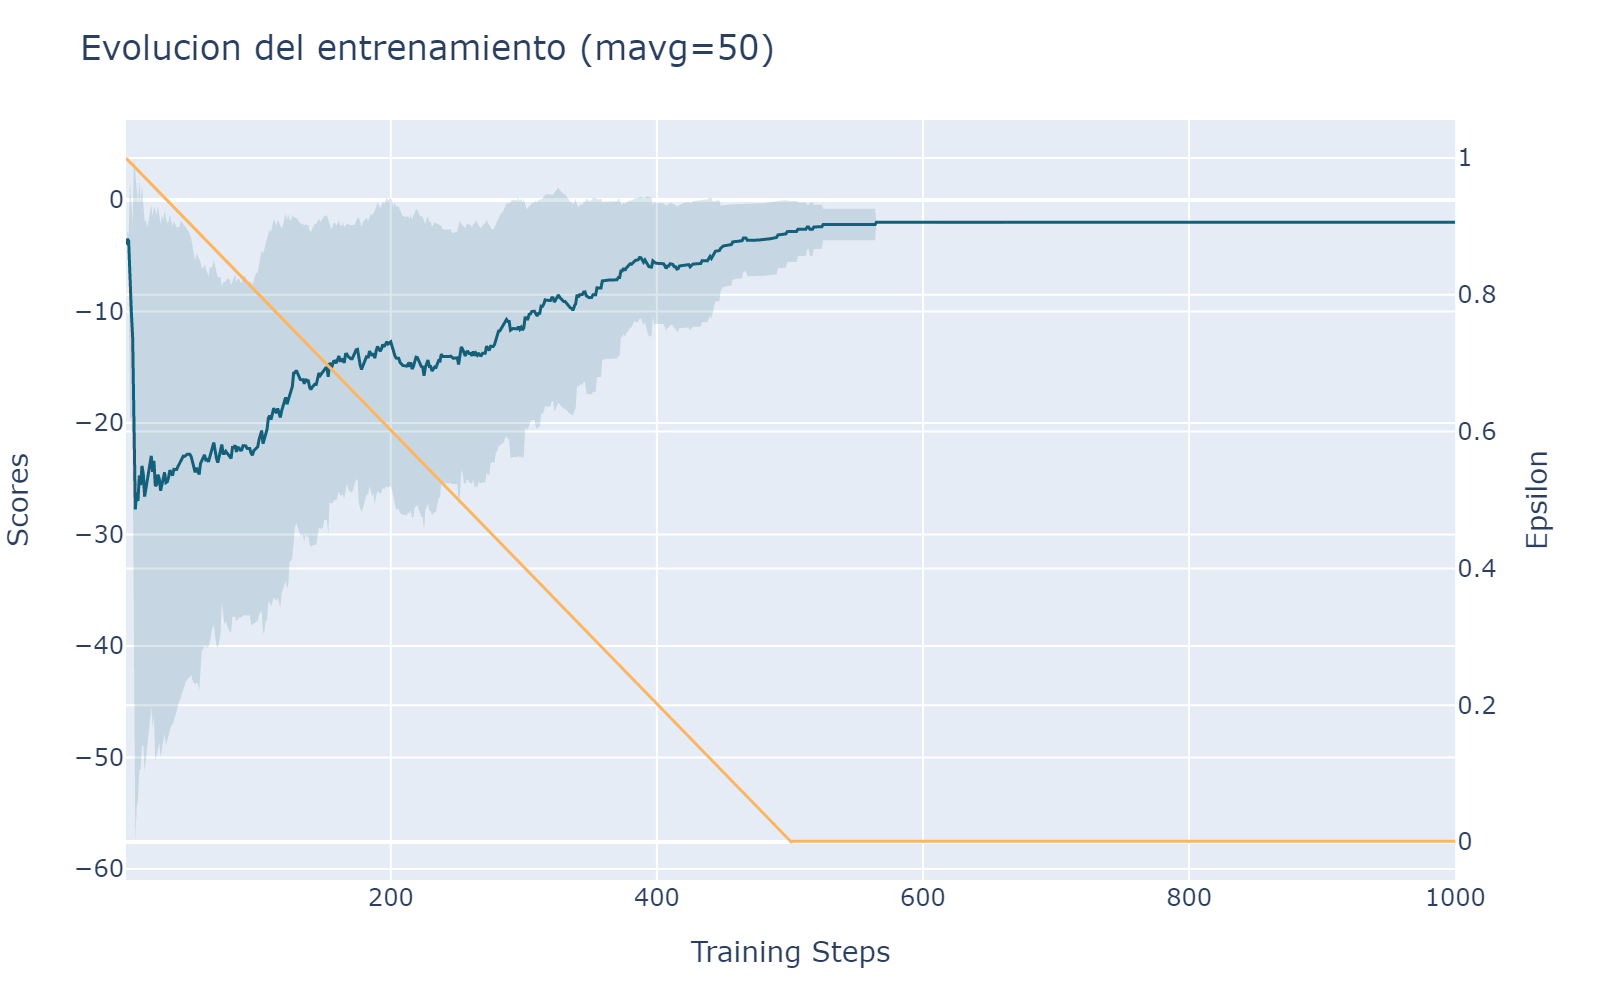
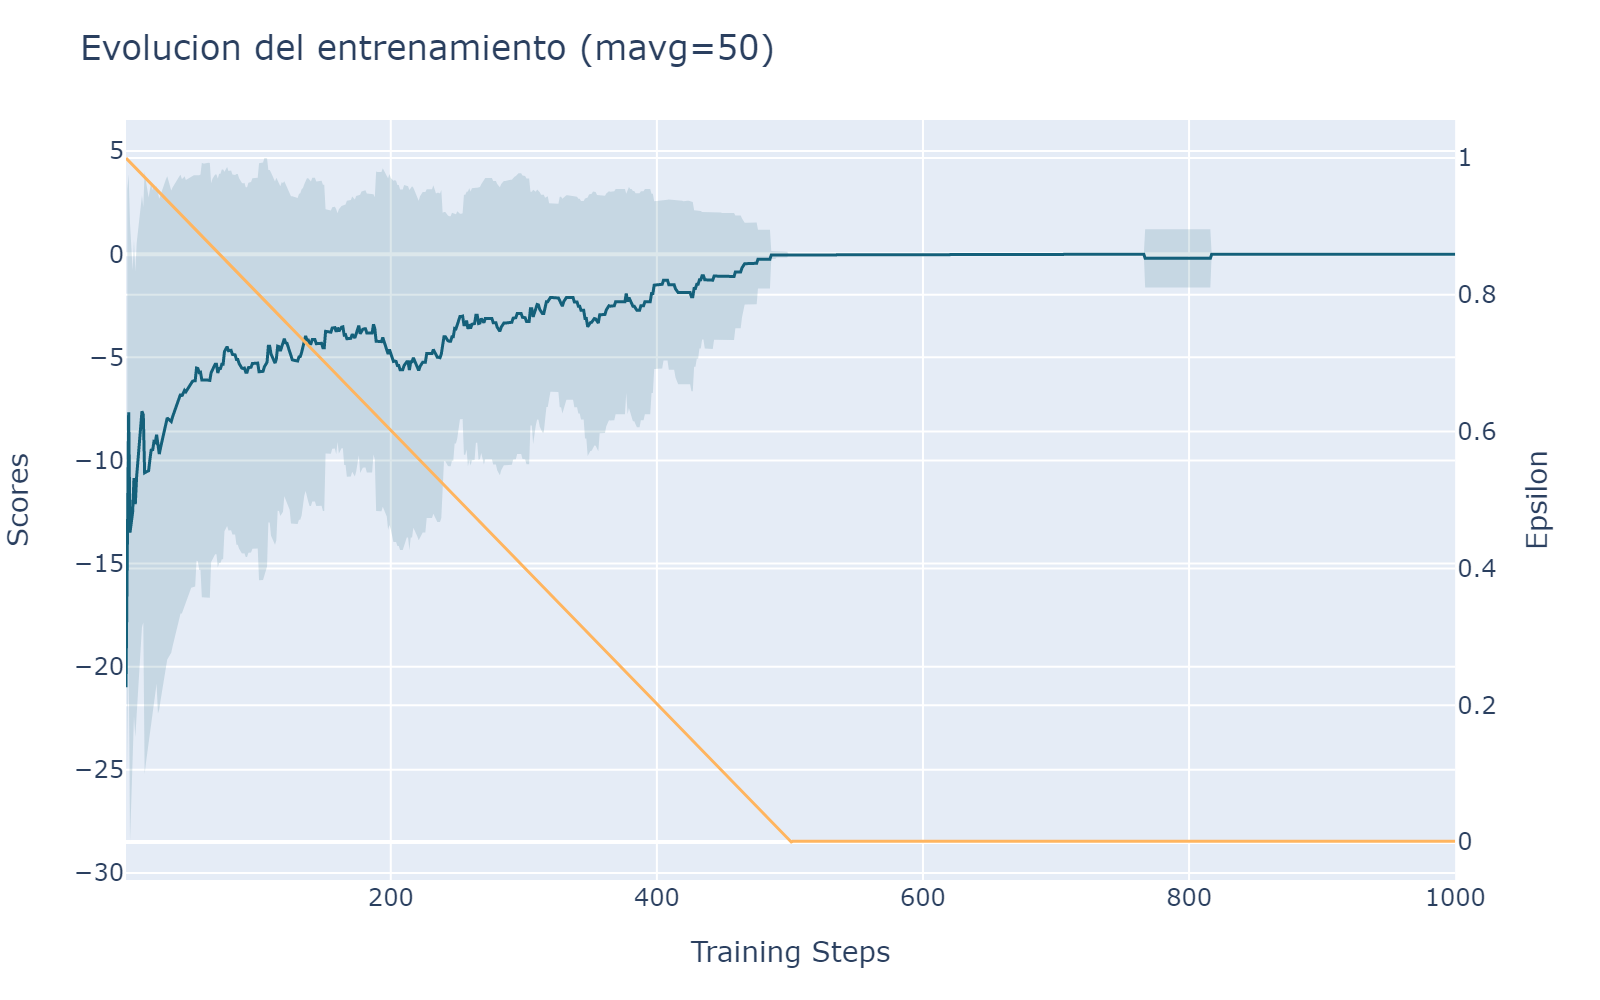
Valor como referencia

diff --git a/modelo_rl/modelo_rl/examples/modulo.py b/modelo_rl/modelo_rl/examples/modulo.py
@@ -1,21 +1,23 @@
 import numpy as np
 import modelo_rl
 import os
+
 path = os.path.dirname(os.path.abspath(__file__))
 
-ejemplo = np.array(
-        [
-            {'id': 'gye1-port1', 'congestionado': True, 'bw': 199, 'region': 'gye', 'capacidad': 200},
-            {'id': 'gye1-port2', 'congestionado': False, 'bw': 187, 'region': 'gye', 'capacidad': 200},
-            {'id': 'gye1-port3', 'congestionado': False, 'bw': 156, 'region': 'gye', 'capacidad': 200},
-            {'id': 'gye2-port1', 'congestionado': False, 'bw': 49, 'region': 'gye', 'capacidad': 100},
-            {'id': 'gye2-port2', 'congestionado': True, 'bw': 48, 'region': 'gye', 'capacidad': 50},
-            {'id': 'uio1-port1', 'congestionado': False, 'bw': 120, 'region': 'uio', 'capacidad': 200},
-            {'id': 'uio1-port2', 'congestionado': True, 'bw': 199, 'region': 'uio', 'capacidad': 200},
-            {'id': 'uio2-port1', 'congestionado': False, 'bw': 100, 'region': 'uio', 'capacidad': 200},
-            {'id': 'uio2-port2', 'congestionado': False, 'bw': 50, 'region': 'uio', 'capacidad': 100},
-            {'id': 'uio2-port3', 'congestionado': False, 'bw': 29, 'region': 'uio', 'capacidad': 60},
-        ])
-path = f"{path}/learning_curve.png"
-acciones = modelo_rl.solve_congestion(ejemplo, path)
+ejemplo2 = np.array([{'id': 'uio1-port1', 'bw': 185, 'congestionado': False, 'region': 'uio', 'capacidad': 200},
+                     {'id': 'uio1-port2', 'bw': 92, 'congestionado': False, 'region': 'uio', 'capacidad': 100},
+                     {'id': 'uio1-port3', 'bw': 43, 'congestionado': False, 'region': 'uio', 'capacidad': 50},
+                     {'id': 'uio1-port4', 'bw': 43, 'congestionado': False, 'region': 'uio', 'capacidad': 50},
+                     {'id': 'uio1-port5', 'bw': 33, 'congestionado': False, 'region': 'uio', 'capacidad': 50},
+                     {'id': 'uio1-port6', 'bw': 51, 'congestionado': False, 'region': 'uio', 'capacidad': 60},
+                     {'id': 'uio2-port1', 'bw': 101, 'congestionado': False, 'region': 'uio', 'capacidad': 200},
+                     {'id': 'uio2-port2', 'bw': 101, 'congestionado': False, 'region': 'uio', 'capacidad': 200},
+                     {'id': 'gye1-port1', 'bw': 194, 'congestionado': True, 'region': 'gye', 'capacidad': 200},
+                     {'id': 'gye1-port2', 'bw': 26, 'congestionado': False, 'region': 'gye', 'capacidad': 50},
+                     {'id': 'gye1-port3', 'bw': 51, 'congestionado': False, 'region': 'gye', 'capacidad': 100},
+                     {'id': 'gye1-port4', 'bw': 101, 'congestionado': False, 'region': 'gye', 'capacidad': 200},
+                     {'id': 'gye2-port1', 'bw': 101, 'congestionado': False, 'region': 'gye', 'capacidad': 200},
+                     {'id': 'gye3-port1', 'bw': 51, 'congestionado': False, 'region': 'gye', 'capacidad': 100}]
+                    )
+acciones = modelo_rl.solve_congestion(ejemplo2, path, epoch=1000)
 print(acciones)

diff --git a/modelo_rl/modelo_rl/q_learn_agent.py b/modelo_rl/modelo_rl/q_learn_agent.py
@@ -2,9 +2,16 @@ from .plotter import plot_mavg_sr
 
 import numpy as np
 import logging
+import json
 
 logger = logging.getLogger('q-learn')
 WINDOW = 50
+
+
+def get_links(path):
+    with open(f"{path}/files/model.pt") as f:
+        rs = json.loads(f.read())
+    return np.array(rs)
 
 
 class QNAgent(object):
@@ -55,7 +62,7 @@ class QNAgent(object):
         decrement = 1 / (epoch * self.eps_decay) if self.eps_decay != 0 else self.epsilon
         self.epsilon = (self.epsilon - decrement) if self.epsilon > self.eps_min else self.eps_min
 
-    def learn(self, path, epoch=50):
+    def learn(self, path, links, epoch=50):
         scores, eps_history, steps, best_score = [], [], [], 0
         for i in range(1, epoch + 1):
             # log_it = i % 10 == 0
@@ -66,8 +73,8 @@ class QNAgent(object):
             # === Siempre hace un reset al inicial un epoch
             done = False
             score = 0
-            observation = self.env.reset()
-            best_score = (observation - 1)*-1
+            observation = self.env.reset(get_links(path))
+            best_score = (observation - 1) * -1
 
             while not done:
                 if log_it:
@@ -104,20 +111,20 @@ class QNAgent(object):
         # === Grafica el proceso de aprendizaje
         print(f"Final score: {scores[-1]} / Best Score: {max(scores)} / Perfect Score: {best_score}")
         plot_mavg_sr(scores, eps_history, steps, f'Evolucion del entrenamiento (mavg={WINDOW})', 'Scores', 'Training Steps', window=WINDOW,
-                     filename=path)
+                     filename=f"{path}/learning_curve.png")
 
         # === Guarda los valores de Q en un archivo
         # self.save()
 
         # === Correr ultimo proceso con epsilon=0
         self.eps_min, self.epsilon, log_it = 0, 0, True
-        acciones = self.execute_model(log_it)
+        acciones = self.execute_model(path, log_it)
         return acciones
 
-    def execute_model(self, log_it):
+    def execute_model(self, path, log_it):
         done = False
         score = 0
-        observation = self.env.reset()
+        observation = self.env.reset(get_links(path))
         acciones = []
 
         while not done:

diff --git a/modelo_rl/modelo_rl/main.py b/modelo_rl/modelo_rl/main.py
@@ -2,6 +2,7 @@ from .q_learn_agent import QNAgent
 from .q_learn_environment import QNEnv
 
 import logging
+import json
 
 formatter = logging.Formatter("%(asctime)s - %(name)s - %(levelname)s - %(message)s")
 logger = logging.getLogger("q-learn")
@@ -12,8 +13,14 @@ ch.setFormatter(formatter)
 logger.addHandler(ch)
 
 
-def solve_congestion(links, path):
+def solve_congestion(links, path, epoch=1000):
     # === Discount farsighted, futuras recompensas tienen el mismo peso que las actuales, epsilon random en un inicio, greedy despues
+    save_links(links, path)
     env = QNEnv(links=links)
     agent = QNAgent(env=env, epsilon=1.0, eps_min=0.001, lr=0.1, discount=1.0)
-    return agent.learn(path, epoch=1000)
+    return agent.learn(path, links, epoch=epoch)
+
+
+def save_links(links, path):
+    with open(f"{path}/files/model.pt", 'w+') as f:
+        f.write(json.dumps(links.tolist()))
